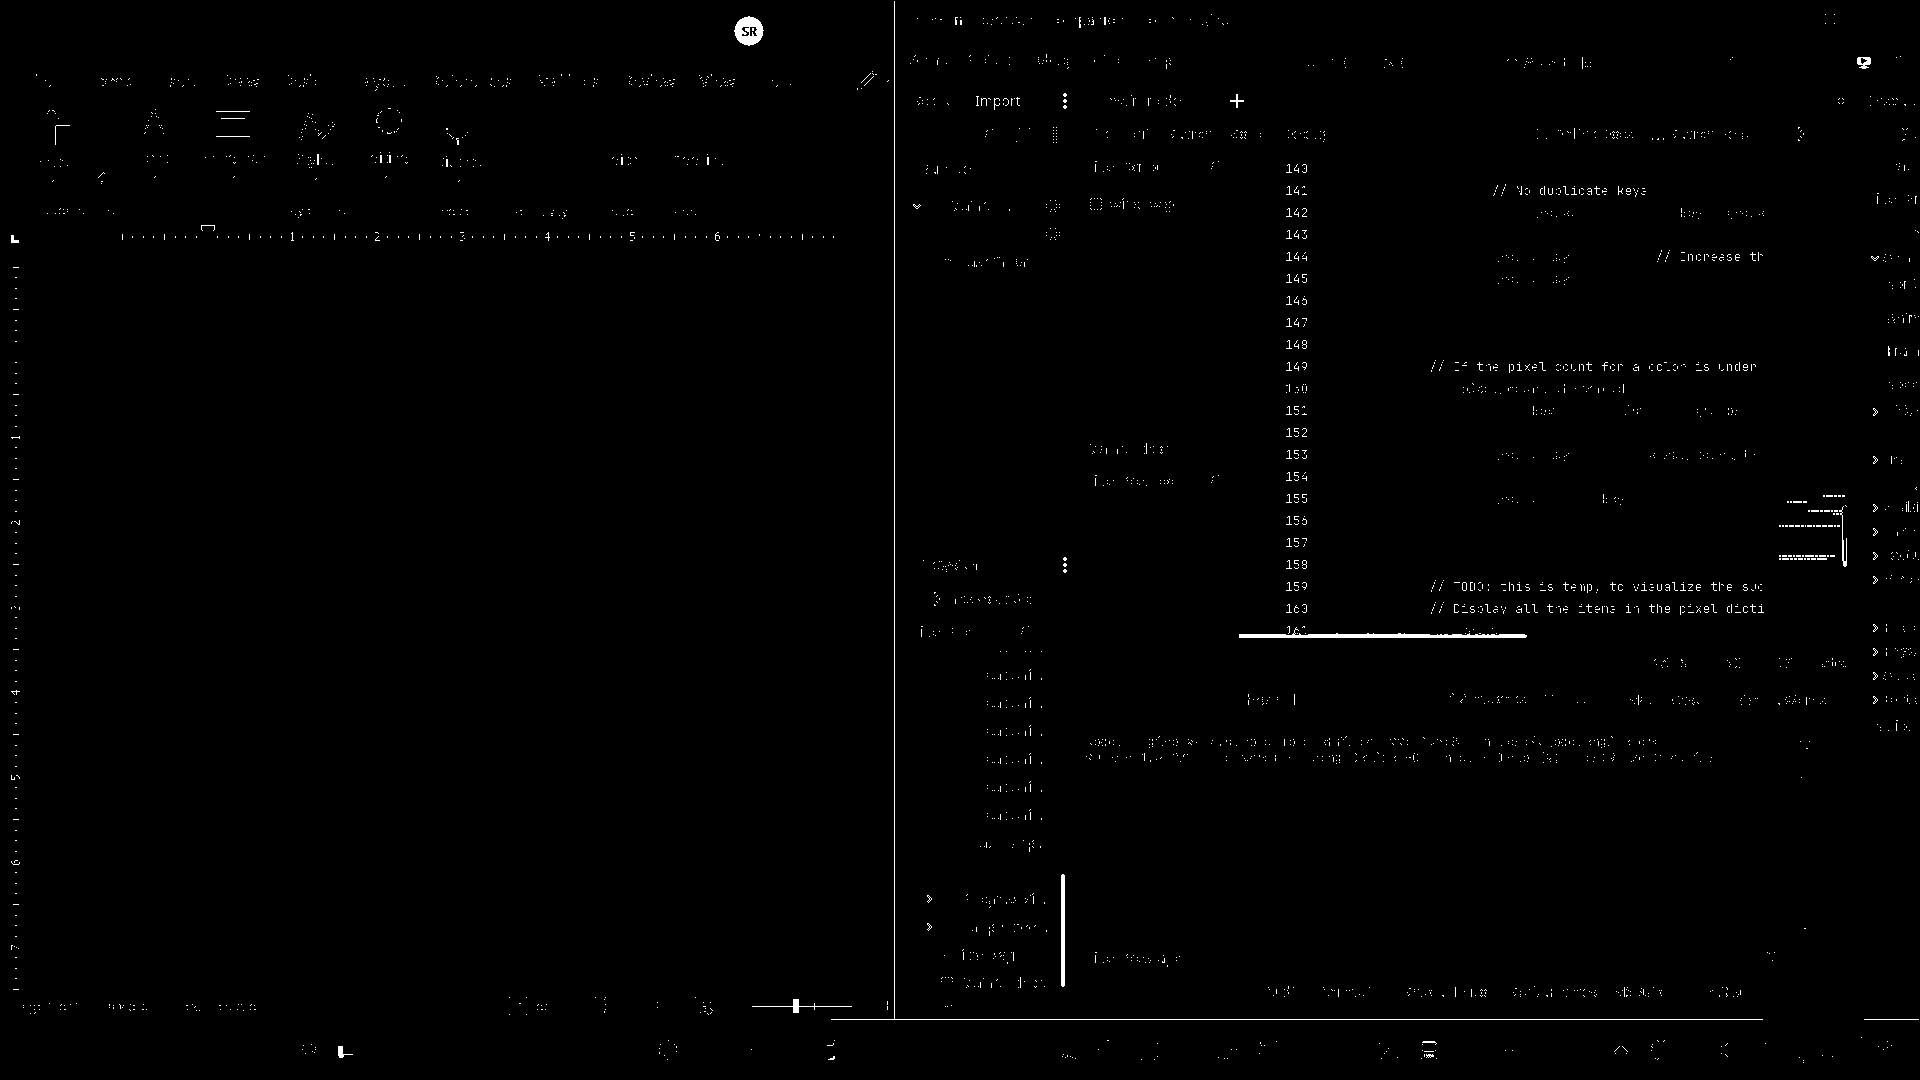
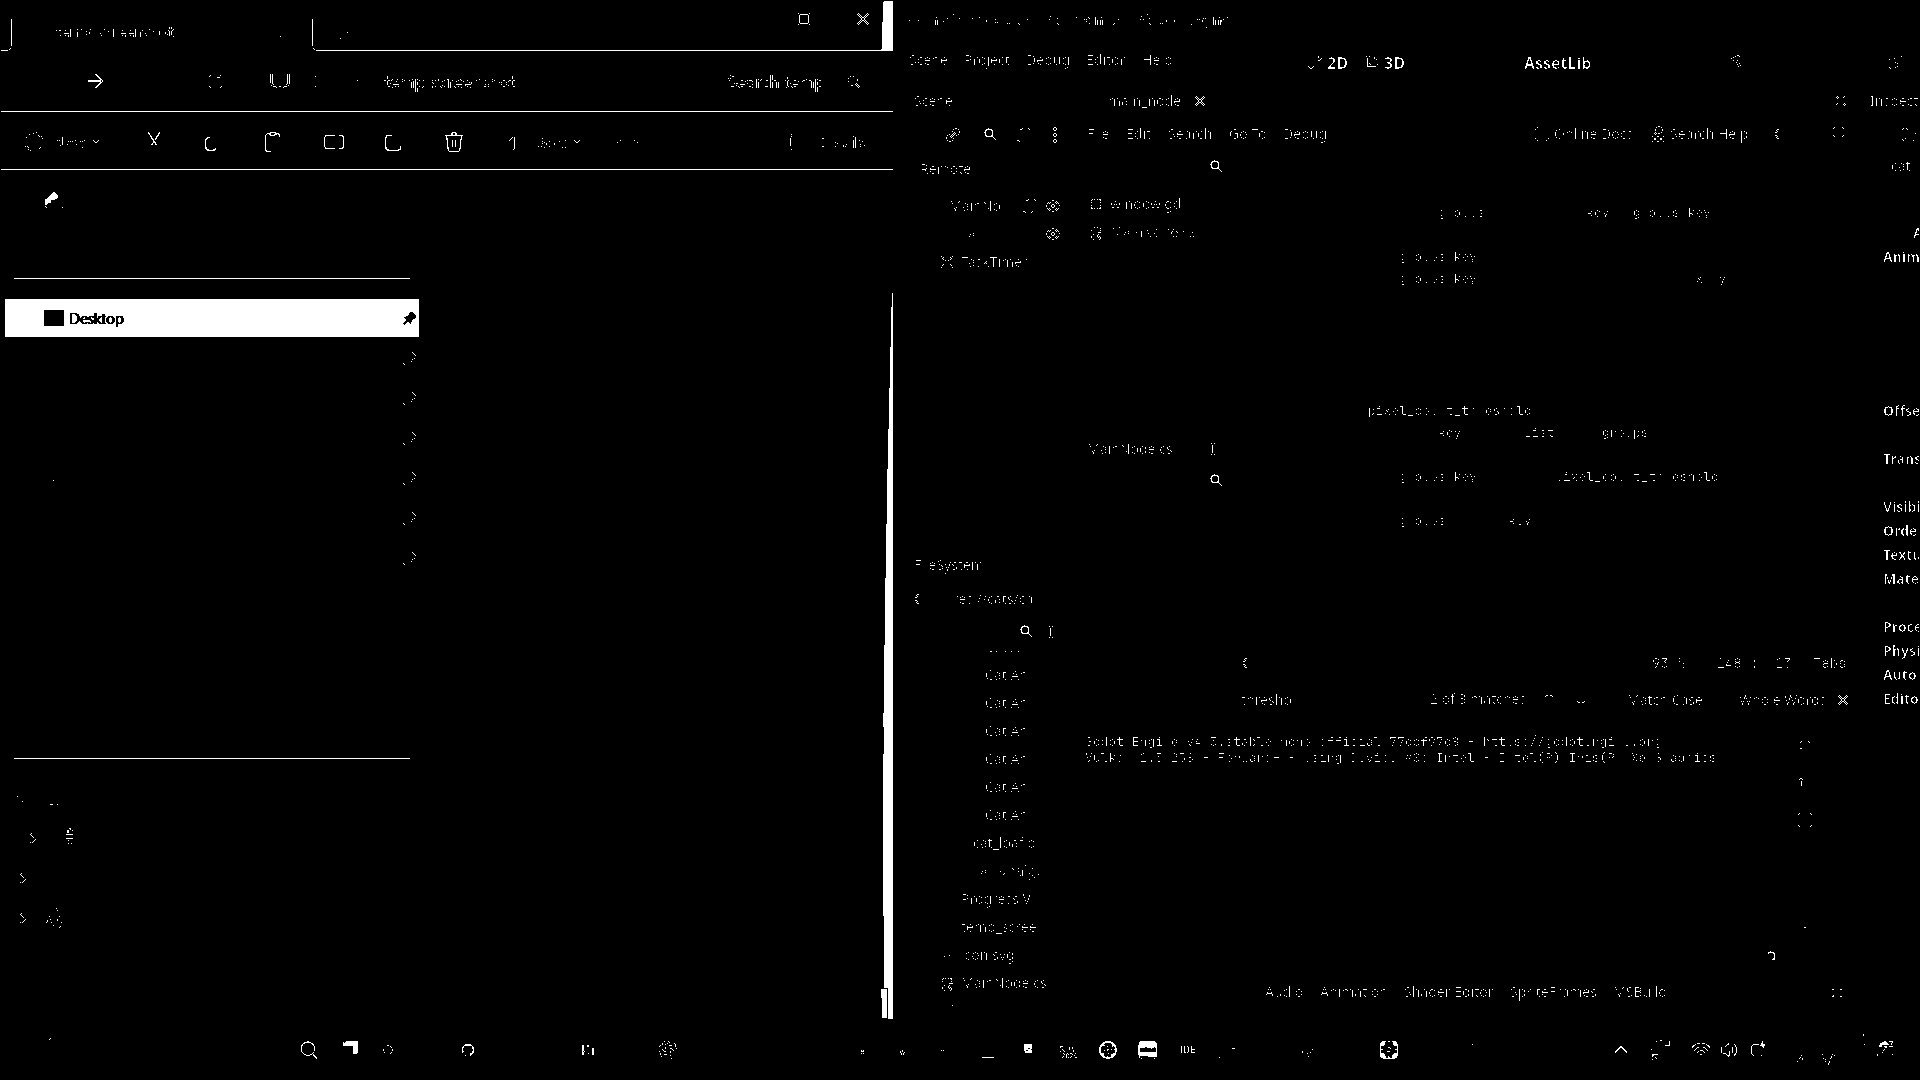
Update Todos

diff --git a/MainNode.cs b/MainNode.cs
@@ -147,6 +147,7 @@ public partial class MainNode : Node2D
 			}
 			
 			// If the pixel count for a color is under the threshold, leave it out
+			// TODO: getting weird curves with split screens
 			int pixel_count_threshold = 10000; //(WAS 1000)
 			foreach (var key in new List<int>(groups.Keys))
 			{
